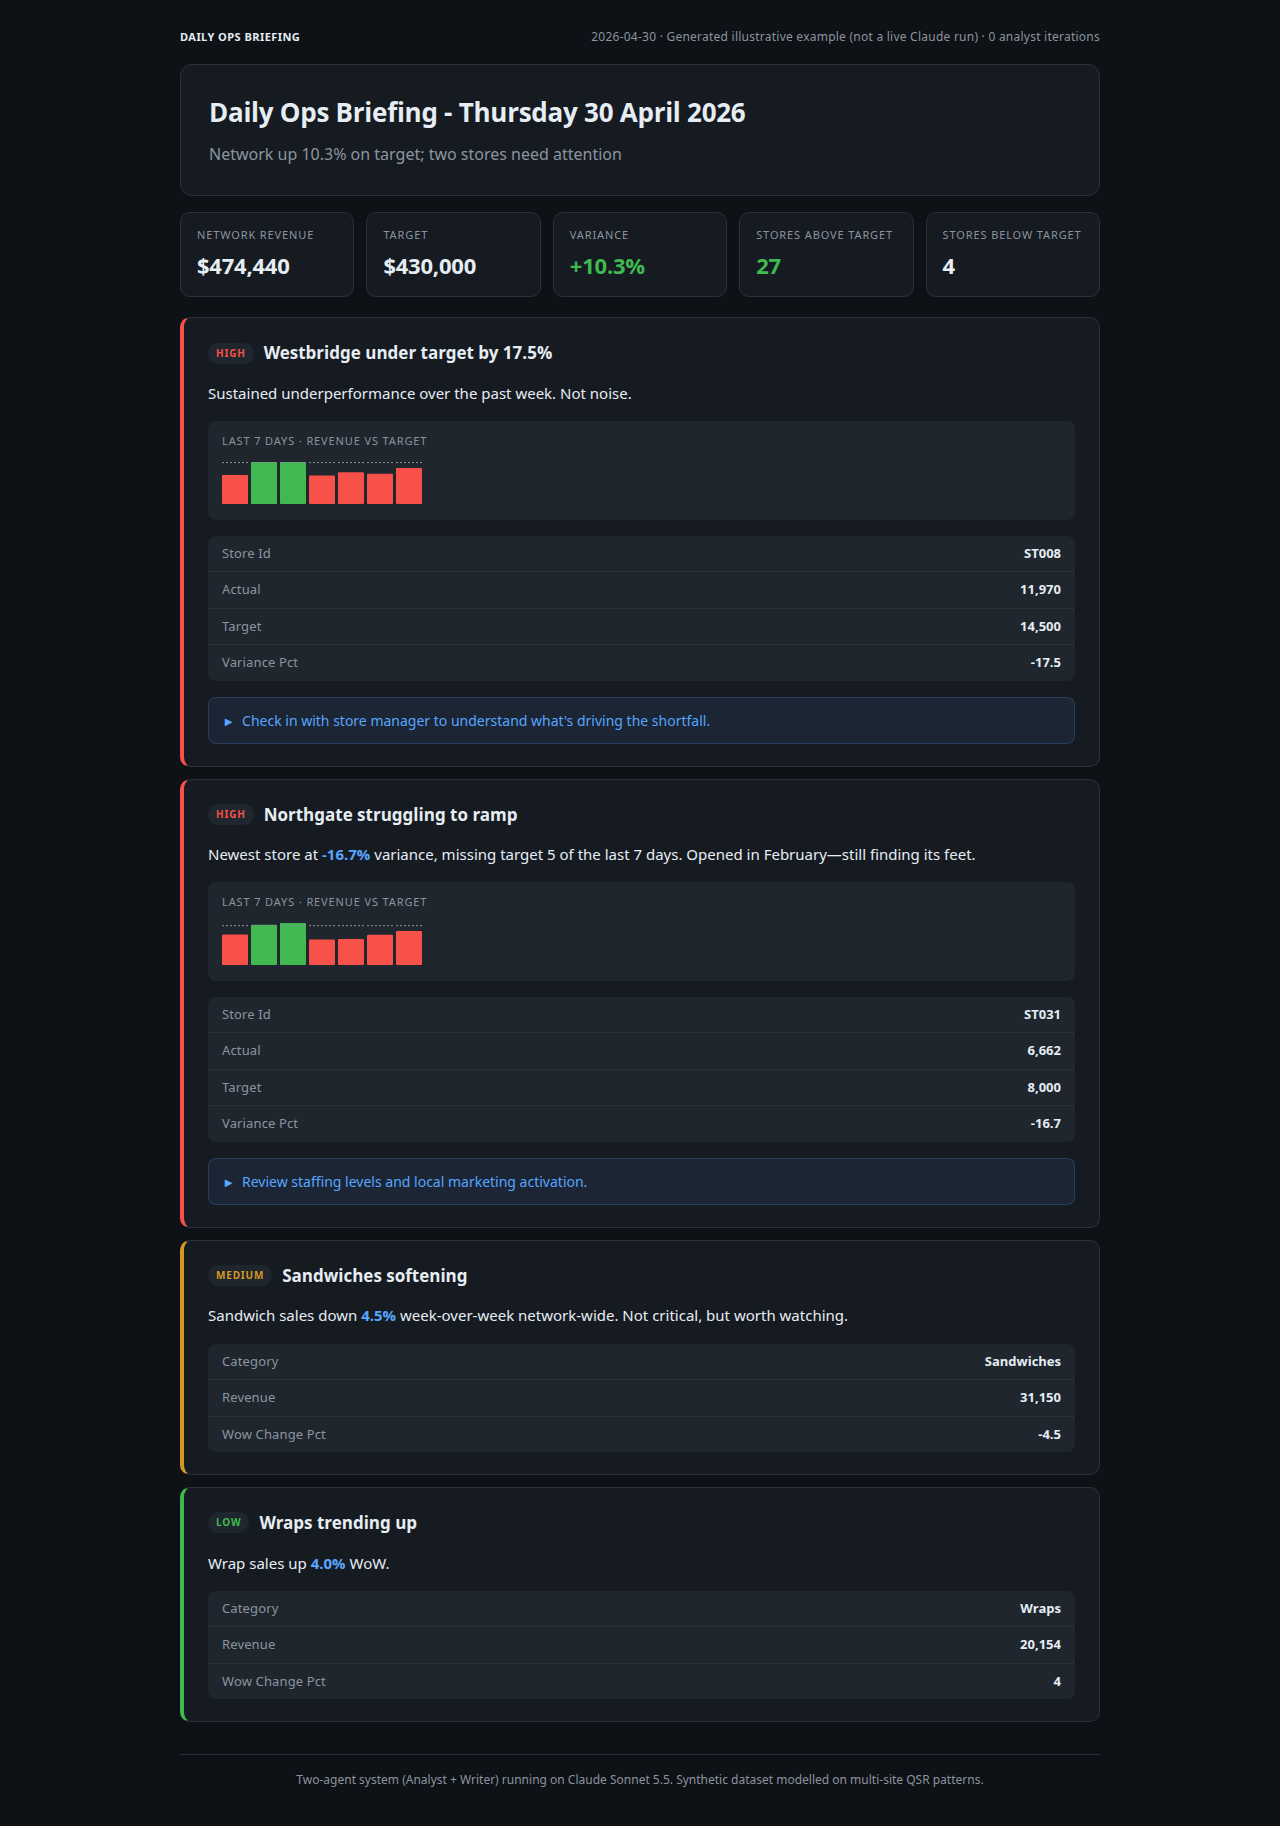
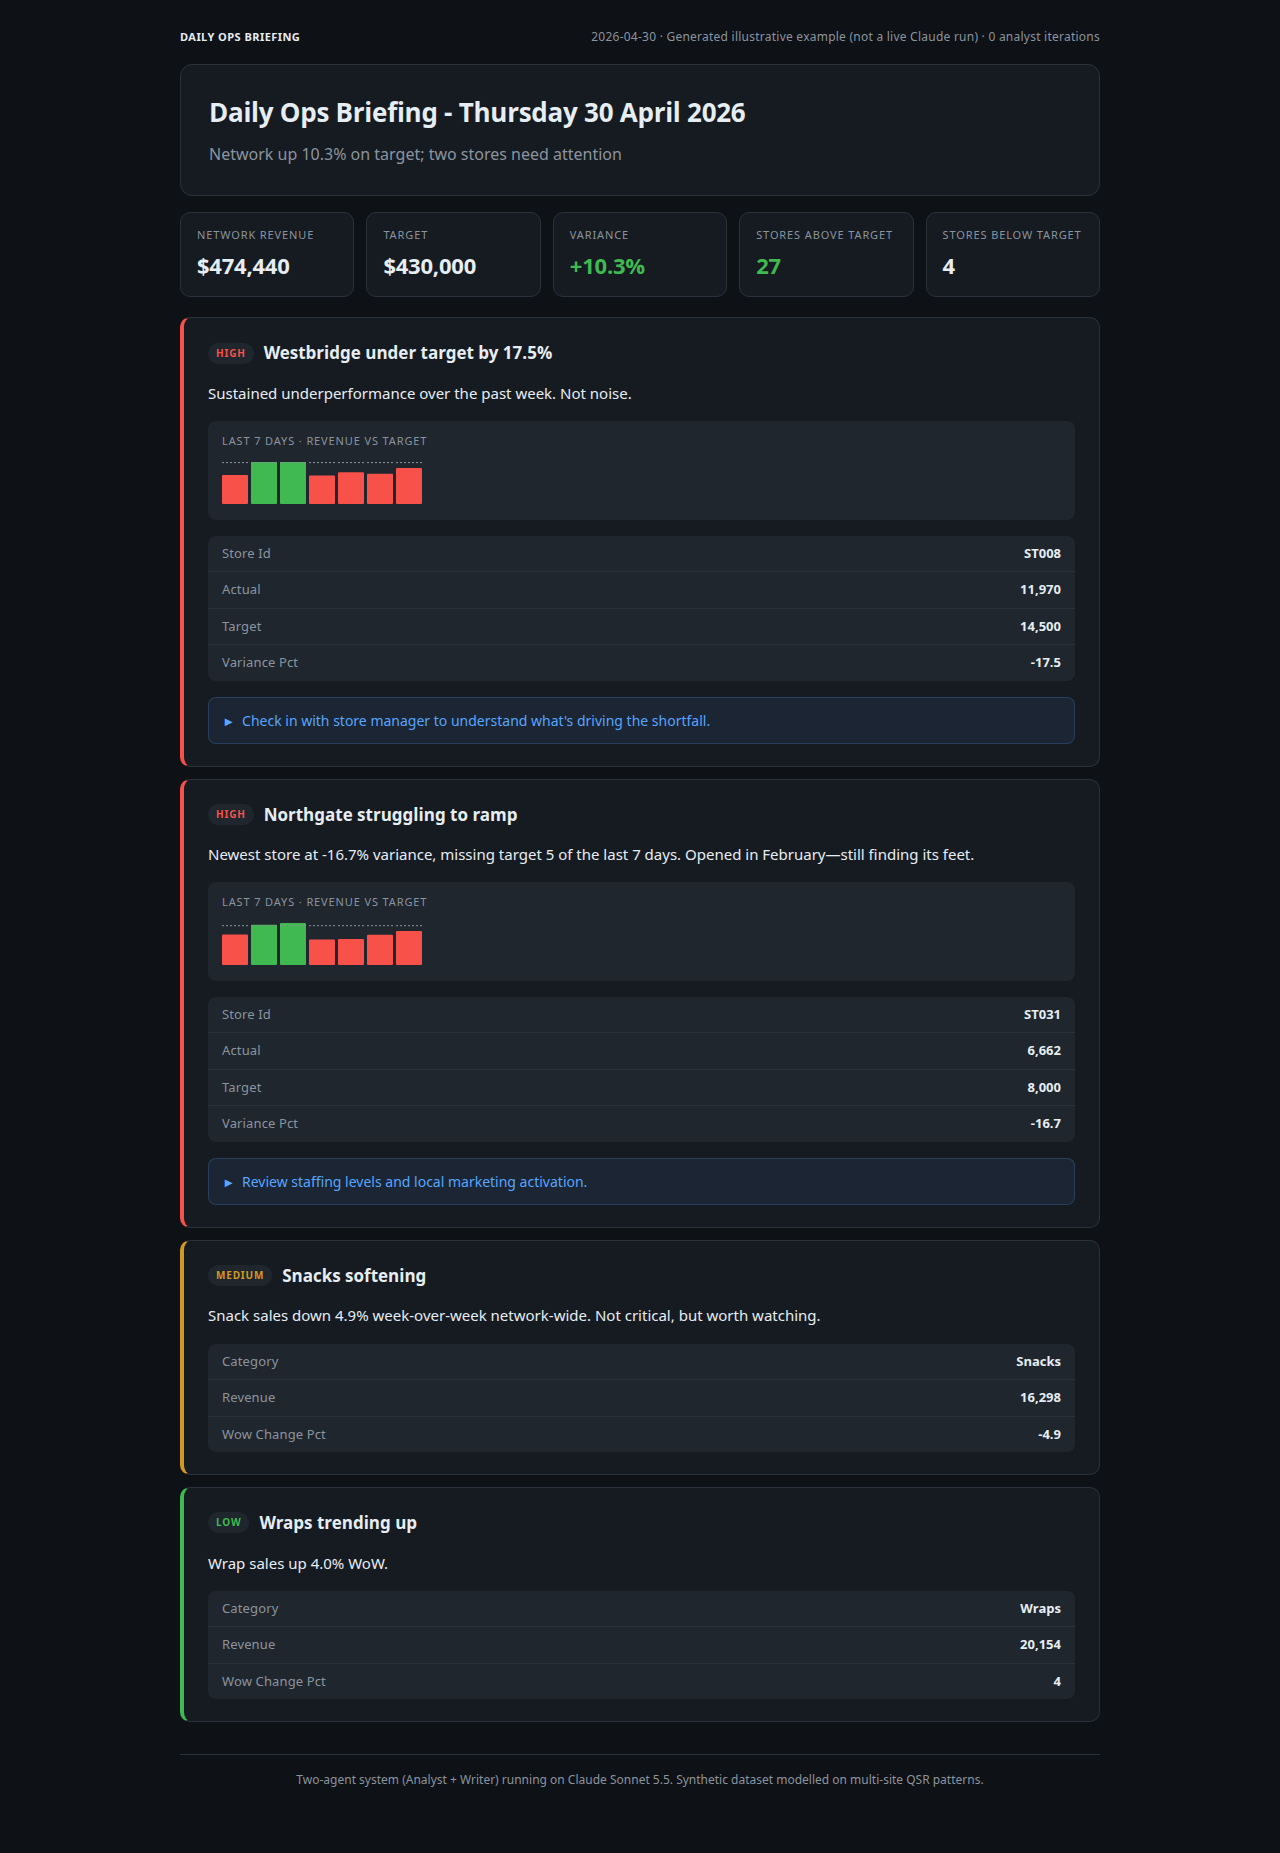
Load illustrative dashboard via EXAMPLE_BRIEFING=1 (#8)
* Add EXAMPLE_BRIEFING=1 to load the illustrative dashboard example.

A fresh app.py run showed an empty dashboard while the README caption
implied a seeded local run. Load the committed example payload at
startup when EXAMPLE_BRIEFING=1, label it as an illustrative example,
and align the Writer finding with Snacks (-4.9%), the largest category
decline on the seeded data. Print the built DB size from setup_data.py
and treat tool-description routing as a design choice, not a measured
result.

* Recapture dashboard screenshots with EXAMPLE_BRIEFING=1.

Taken from the running Flask app after the example payload flagged
Snacks (-4.9%), using the same 1280-wide full-page frame and the
778px hero crop below the first finding card.

---------

diff --git a/app.py b/app.py
@@ -12,11 +12,13 @@ Designed for deployment on Render (free tier). Wakes on first request after idle
 
 from __future__ import annotations
 
+import json
 import os
 import re
 import threading
 from datetime import UTC, datetime
 from html import escape as _esc
+from pathlib import Path
 from typing import Any
 from urllib.parse import quote
 
@@ -33,6 +35,36 @@ _last_error: dict[str, Any] | None = None
 _run_lock = threading.Lock()
 
 ACCESS_TOKEN = os.environ.get("BRIEFING_TOKEN")
+EXAMPLE_BRIEFING_LABEL = "illustrative example (not a live Claude run)"
+
+
+def _env_enabled(name: str) -> bool:
+    return os.environ.get(name, "").strip().lower() in {"1", "true", "yes", "on"}
+
+
+def _example_briefing_path() -> Path:
+    return Path(__file__).resolve().parent / "examples" / "illustrative_briefing.json"
+
+
+def load_illustrative_briefing(path: Path | None = None) -> dict[str, Any]:
+    """Load the committed illustrative example briefing (not a live Claude run)."""
+    src = path or _example_briefing_path()
+    if not src.is_file():
+        raise FileNotFoundError(f"EXAMPLE_BRIEFING is set but {src} is missing")
+    with src.open(encoding="utf-8") as fh:
+        payload: Any = json.load(fh)
+    if not isinstance(payload, dict):
+        raise ValueError(f"illustrative briefing at {src} must be a JSON object")
+    return payload
+
+
+def apply_example_briefing_if_enabled() -> bool:
+    """Populate the in-memory cache from examples/ when EXAMPLE_BRIEFING is set."""
+    global _latest_briefing
+    if not _env_enabled("EXAMPLE_BRIEFING"):
+        return False
+    _latest_briefing = load_illustrative_briefing()
+    return True
 
 
 def _check_token() -> tuple[Response, int] | None:
@@ -187,6 +219,8 @@ def dashboard() -> Response | tuple[Response, int]:
         body = _render_body(_latest_briefing)
         date_label = _latest_briefing.get("date", "—")
         gen = _latest_briefing.get("generated_at", "")
+        if _latest_briefing.get("illustrative"):
+            gen = EXAMPLE_BRIEFING_LABEL
         meta_label = f"Generated {gen} · {_latest_briefing['metadata']['analyst_iterations']} analyst iterations"
 
     return Response(_PAGE.format(date=date_label, meta=meta_label, body=body), mimetype="text/html")
@@ -776,6 +810,9 @@ _PAGE = """<!doctype html>
   </footer>
 </body>
 </html>"""
+
+
+apply_example_briefing_if_enabled()
 
 
 if __name__ == "__main__":

diff --git a/tests/test_app.py b/tests/test_app.py
@@ -78,6 +78,30 @@ class TestDashboard:
             response = client.get("/?key=secret123")
             assert b'href="/run?key=secret123"' in response.data
 
+    def test_example_briefing_flag_labels_dashboard(self, client, monkeypatch: pytest.MonkeyPatch) -> None:
+        monkeypatch.setenv("EXAMPLE_BRIEFING", "1")
+        assert app_module.apply_example_briefing_if_enabled() is True
+        response = client.get("/")
+        assert response.status_code == 200
+        assert b"illustrative example (not a live Claude run)" in response.data
+        assert b"No briefing yet" not in response.data
+        assert b"Snacks softening" in response.data
+        assert b"Sandwiches" not in response.data
+
+    def test_example_briefing_flag_off_keeps_empty_state(self, client, monkeypatch: pytest.MonkeyPatch) -> None:
+        monkeypatch.setenv("EXAMPLE_BRIEFING", "0")
+        assert app_module.apply_example_briefing_if_enabled() is False
+        response = client.get("/")
+        assert b"No briefing yet" in response.data
+
+    def test_illustrative_payload_passes_output_validators(self) -> None:
+        from tests.test_eval import briefing_errors, findings_errors
+
+        payload = app_module.load_illustrative_briefing()
+        assert payload["illustrative"] is True
+        assert findings_errors(payload["analyst_findings"]) == []
+        assert briefing_errors(payload["briefing_markdown"]) == []
+
 
 class TestLatestJson:
     """Tests for the /latest.json endpoint."""

diff --git a/setup_data.py b/setup_data.py
@@ -6,9 +6,10 @@ If data/pos.db exists, exits immediately. Otherwise runs:
   1. generate_transactions.py -> data/transactions.json (deterministic via seed)
   2. build_db.py -> data/pos.db (SQLite from JSON)
 
-Reason for this design: keeps the repo small (only 90KB of source data files,
-no 28MB DB). DB is built deterministically from a fixed random seed so every
-deploy produces identical data - useful for testing and demos.
+Reason for this design: keeps the repo small (source JSON only; the SQLite
+DB is built at deploy time). DB is built deterministically from a fixed
+random seed so every deploy produces identical data - useful for testing
+and demos.
 """
 
 import os
@@ -42,4 +43,5 @@ if os.path.exists("data/transactions.json"):
     os.remove("data/transactions.json")
     print("\nRemoved intermediate data/transactions.json", flush=True)
 
-print(f"\nSetup complete. {DB_PATH} ready.", flush=True)
+size_mb = os.path.getsize(DB_PATH) / (1024 * 1024)
+print(f"\nSetup complete. {DB_PATH} ready ({size_mb:.1f} MB).", flush=True)

diff --git a/README.md b/README.md
@@ -20,14 +20,14 @@ Two Claude agents review a synthetic 31-store network and write a daily ops brie
   <img alt="Flask dashboard showing the illustrative example briefing: network summary and the first finding" src="assets/dashboard-hero.png" width="720">
 </p>
 
-<p align="center"><sub>Flask dashboard at <code>/</code> from a local run on seeded synthetic data</sub></p>
+<p align="center"><sub>Flask dashboard at <code>/</code> with <code>EXAMPLE_BRIEFING=1</code> on seeded synthetic data</sub></p>
 
 > [!NOTE]
-> The dashboard is rendering the illustrative example briefing below, not a live Claude run. A live-run capture will replace it.
+> The screenshot is the illustrative example loaded with <code>EXAMPLE_BRIEFING=1</code>, not a live Claude run.
 
 ## Example output
 
-The numbers below are last-7-day aggregates from the **seeded synthetic dataset** (week ending 30 April 2026). They match `network_summary`, `store_performance`, `store_trend`, and `category_performance` on `data/pos.db` after `python setup_data.py`. Currency is rounded to the nearest dollar (Westbridge actual is $11,969.50; Northgate actual is $6,661.50). The prose is an **illustrative Writer-style briefing**, not a live Claude transcript.
+The numbers below are last-7-day aggregates from the **seeded synthetic dataset** (week ending 30 April 2026). They match `network_summary`, `store_performance`, `store_trend`, and `category_performance` on `data/pos.db` after `python setup_data.py`. Currency is rounded to the nearest dollar (Westbridge actual is $11,969.50; Northgate actual is $6,661.50). Snacks is the largest category decline (−4.9% WoW; $16,298). The prose is an **illustrative Writer-style briefing**, not a live Claude transcript. The dashboard payload is committed at `examples/illustrative_briefing.json` and loaded when `EXAMPLE_BRIEFING=1`.
 
 ### Briefing (Writer output)
 
@@ -46,8 +46,8 @@ Newest store at *-16.7%* variance, missing target 5 of the last 7 days.
 Opened in February—still finding its feet.
 Action: Review staffing levels and local marketing activation.
 
-🟡 *Sandwiches softening*
-Sandwich sales down *4.5%* week-over-week network-wide. Not critical, but 
+🟡 *Snacks softening*
+Snack sales down *4.9%* week-over-week network-wide. Not critical, but 
 worth watching.
 
 🟢 *Wraps trending up*
@@ -182,7 +182,7 @@ Tool descriptions are carefully written to guide the agent's routing decisions. 
 ### Prerequisites
 
 - Python 3.11+
-- [Anthropic API key](https://console.anthropic.com/)
+- [Anthropic API key](https://console.anthropic.com/) — required only for a live Analyst/Writer run, not for `EXAMPLE_BRIEFING=1`
 
 ### Local development
 
@@ -197,12 +197,16 @@ pip install -r requirements.txt
 
 python setup_data.py
 
+# Dashboard with the illustrative example (no API key)
+EXAMPLE_BRIEFING=1 python app.py  # Serves on http://localhost:8080
+
+# Live briefing (requires an API key)
 export ANTHROPIC_API_KEY=sk-ant-api03-your-key-here
-
 python agents.py
-
-python app.py  # Serves on http://localhost:8080
+python app.py
 ```
+
+Without `EXAMPLE_BRIEFING=1` or a completed `/run`, the dashboard shows "No briefing yet".
 
 <details>
 <summary><b>Environment variables</b></summary>
@@ -210,8 +214,11 @@ python app.py  # Serves on http://localhost:8080
 Copy `.env.example` to `.env` and configure:
 
 ```bash
-# Required
+# Required for a live briefing run
 ANTHROPIC_API_KEY=sk-ant-api03-your-key-here
+
+# Optional: load the illustrative example briefing at startup (no API key)
+EXAMPLE_BRIEFING=1
 
 # Optional: protect /run endpoint with a token
 BRIEFING_TOKEN=your-secret-token
@@ -304,14 +311,12 @@ A single agent could do both investigation and writing, but separation has benef
 - **Composability.** The Analyst findings could feed multiple outputs (Slack, email, PDF) without re-running analysis
 - **Different failure modes.** If the Writer produces bad prose, the Analyst findings are still valid
 
-### Why tool descriptions matter more than prompt tuning
+### Why tool descriptions are written to guide routing
 
-In development, rewriting tool descriptions to say *when* each tool fits improved routing more than system-prompt tuning did:
+Tool descriptions state *when* each tool fits in the investigation, not only what they return. Routing is chosen from the tool list, so the role-in-the-flow language belongs there rather than only in a longer system prompt:
 - "Usually the first call to make" (network_summary)
 - "Use to investigate whether underperformance is a one-off or a sustained trend" (store_trend)
 - "Use to drill into category-level findings" (top_products)
-
-The agent routes much better when tools explain their role in the investigation flow, not just what they return.
 
 ### Why synthetic data?
 
@@ -332,7 +337,7 @@ The full system would query a data warehouse, but SQLite:
 ## Limitations
 
 - **Synthetic data only.** The catalogue, 31 stores, and 30 days of transactions are generated (`setup_data.py`, fixed random seed). There is no live POS feed. Store names are invented.
-- **The README example is not a live Claude run.** The Writer markdown and Analyst JSON under Example Output are an illustrative payload aligned with the seeded last-7-day aggregates. Tests mock the Claude API; CI does not call Anthropic.
+- **The README example is not a live Claude run.** The Writer markdown and Analyst JSON under Example Output are an illustrative payload aligned with the seeded last-7-day aggregates (`examples/illustrative_briefing.json`, loaded by `EXAMPLE_BRIEFING=1`). Tests mock the Claude API; CI does not call Anthropic.
 - **Each run costs a Claude API sequence.** The Analyst may loop up to 12 times (`max_tokens=4096` per call, with tool use). The Writer is one further call (`max_tokens=2048`). Both use `claude-sonnet-5-5`. This repo does not log token usage or dollar cost.
 - **GET `/run` is a convenience alias for POST.** It triggers a new briefing (not idempotent). The Make.com screenshot uses GET because that is easy to wire in an HTTP module.
 - **Render free tier sleeps after 15 minutes idle.** The first request after sleep takes ~30 seconds to wake. The latest briefing is stored in process memory, so a sleep or restart clears it until the next `/run`.
@@ -356,6 +361,8 @@ The full system would query a data warehouse, but SQLite:
 │   ├── stores.json           # Store metadata (committed)
 │   ├── products.json         # Synthetic catalogue (committed)
 │   └── pos.db                # Built at deploy time (gitignored)
+├── examples/
+│   └── illustrative_briefing.json  # EXAMPLE_BRIEFING=1 dashboard payload
 ├── tests/                    # Pytest suite with mocked Claude
 │   └── test_eval.py          # Analyst/Writer output validators
 ├── assets/
